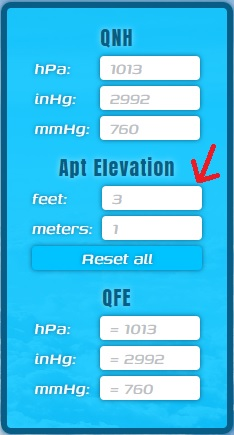
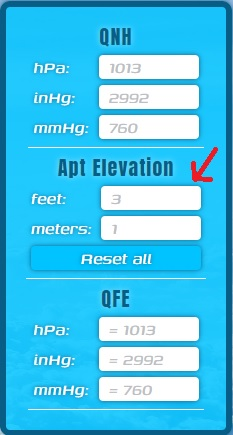
add border-bottoms for mobile screen

diff --git a/index.html b/index.html
@@ -20,7 +20,7 @@
             href="/favicon-16x16.png"
         />
         <link rel="manifest" href="/site.webmanifest" />
-        <link rel="stylesheet" href="index.sass" />
+        <link rel="stylesheet" href="src/index.sass" />
         <meta name="viewport" content="width=device-width, initial-scale=1.0" />
         <title>Qnh To Qfe</title>
     </head>

diff --git a/src/index.sass b/src/index.sass
@@ -9,8 +9,6 @@ html
     font-family: $Anton
     @media (max-width: 350px)
         font-size: 15px
-    // @media (max-width: 320px)
-    //     font-size: 14px
 
 *,
 *::before,

diff --git a/src/assets/components/InputBoxes/InputBox.sass b/src/assets/components/InputBoxes/InputBox.sass
@@ -3,3 +3,5 @@
     flex-direction: column
     align-items: center
     padding: .25rem
+    @media (max-width: 600px)
+        border-bottom: .05rem solid #fff
